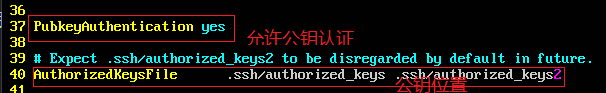
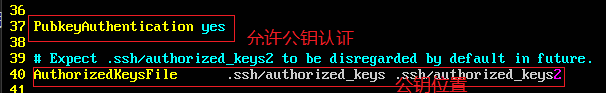
修复图片显示

diff --git a/la1/lab1.md b/la1/lab1.md
@@ -28,7 +28,7 @@
         vim /etc/ssh/sshd_config
     
 
-    ![](image/ssh_set.png)
+    ![](image/set_ssh.png)
 
 5. 通过sftp上传`ubuntu-16.04.1-server-amd64.iso`
 
@@ -40,7 +40,7 @@
 
     ![](image/sftp_2.png)
     
-    (在生成密钥对时输入了密码)
+    - (在生成密钥对时输入了密码)
 
 6. 生成安装镜像
 
